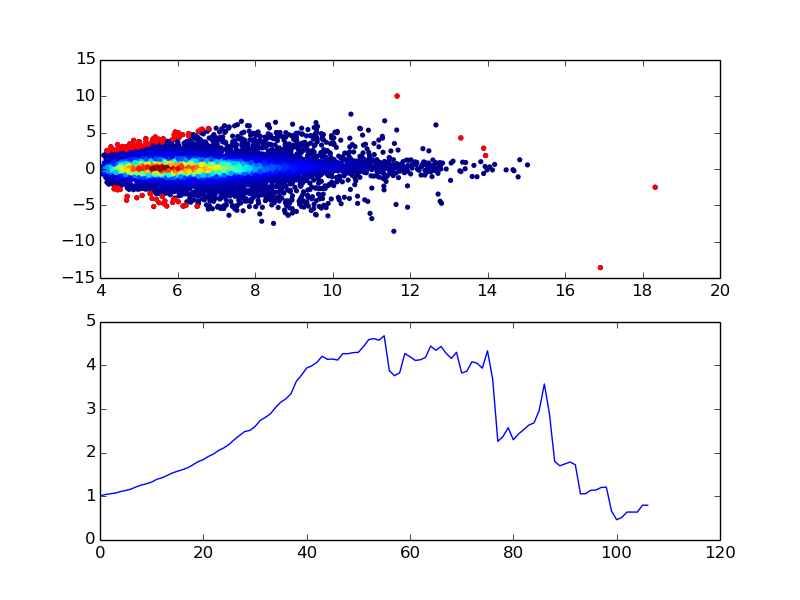
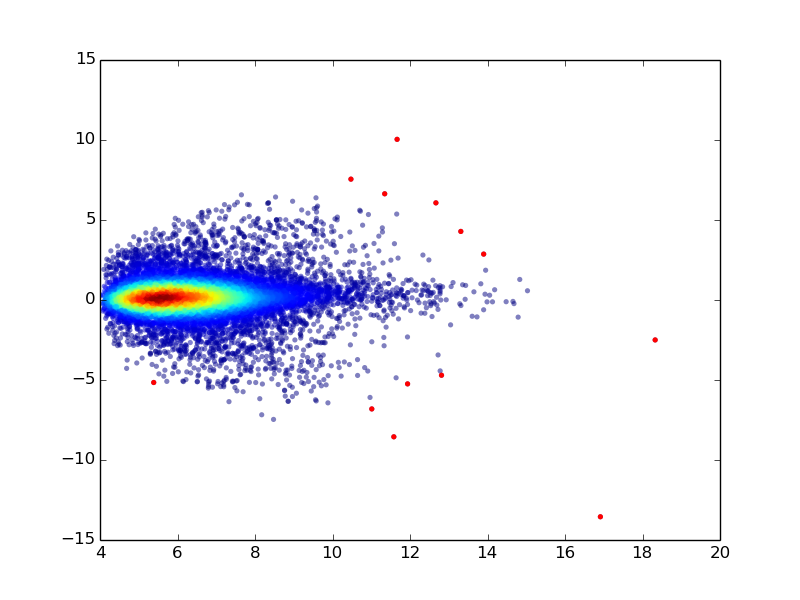
updates

diff --git a/src/tsv_analysis.py b/src/tsv_analysis.py
@@ -217,6 +217,7 @@ def run3(file1,file2):
     X = list()
     Y = list()
     Z = list()
+    genes = list()
     for key in d1:
         if key in d2:
             if (d1[key][0] > cut or d1[key][1] > cut) and (d2[key][0] > cut or d2[key][1] > cut) and d2[key][2] > 0 and d1[key][2] > 0:
@@ -228,6 +229,8 @@ def run3(file1,file2):
                     Z.append(key)
                 Y.append(math.log(d2[key][2]/d1[key][2],2))
                 X.append(math.log((sum((d2[key][0],d2[key][1]))+sum((d1[key][0],d1[key][1])))/2.0,2))
+                genes.append(key)
+                
     
     M = max(X)
     m = min(X)
@@ -249,18 +252,23 @@ def run3(file1,file2):
     
     X2 = list()
     Y2 = list()
+    genedict = gene_dict(genes)
+    siglist = list()
     for i in range(len(X)):
         if int((X[i] - m)*10) < len(X1):
-            var = X1[int((X[i] - m)*10)]
+            k = int((X[i] - m)*10)
+            var = X1[k]
         else:
-            var = X1[len(X1)-1]
-        cdf = norm.cdf(Y[i],0,var)
-        p = min(cdf,1-cdf)*len(X)
+            k = len(X1)-1
+            var = X1[k]
+        cdf = norm.cdf(Y[i],0,math.sqrt(var))
+        p = min(cdf,1-cdf)*len(Z[k])
         if p < 0.1:
             X2.append(X[i])
             Y2.append(Y[i])
+            siglist.append(genedict[genes[i]])
+            
     
-    genedict = gene_dict(genes)
     F = plt.figure() 
     ax = F.add_subplot(111)
     xy = np.vstack([X,Y])
@@ -268,6 +276,12 @@ def run3(file1,file2):
     plt.scatter(X,Y,c=z,edgecolor="",alpha=0.5,s=14) 
     plt.scatter(X2,Y2,c='r',edgecolor="",s=14)
     ax.set_xlim([4,20])
+    ax.get_xaxis().tick_bottom()
+    ax.get_yaxis().tick_left()
+    for l in len(X2):
+        ax.annotate('{:.0f}'.format(siglist[l]), xy=(X2[l],Y2[l]), xytext=(10, 10), ha='right',
+                textcoords='offset points', 
+                arrowprops=dict(arrowstyle='->', shrinkA=0))
     #ax.set_xscale('log', basex=2)
     #ax.set_yscale('log', basey=2)
     #ax2 = F.add_subplot(212)
